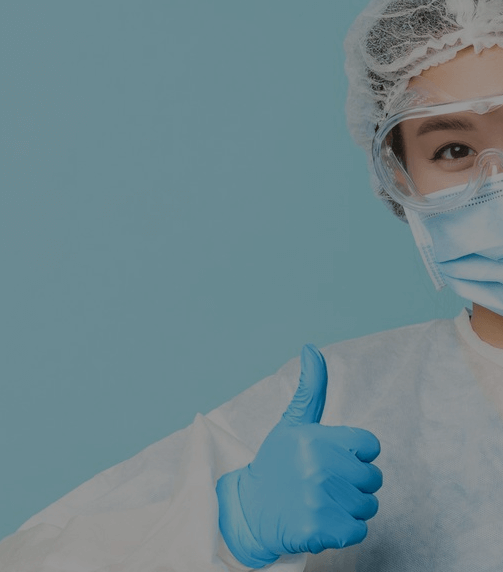
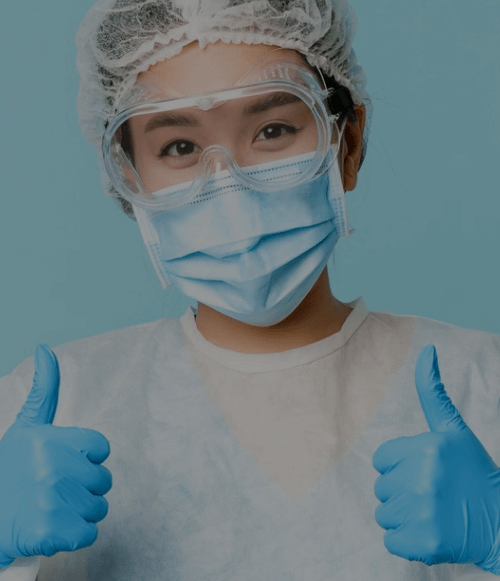
Optimize backgrounds

diff --git a/src/sections/hero.js b/src/sections/hero.js
@@ -2,8 +2,32 @@ import { useState } from 'react';
 import { Box, Stack, Typography, Button, useMediaQuery } from '@mui/material';
 import { ContactForm } from '../components/contact-form';
 import ArrowCircleDownIcon from '@mui/icons-material/ArrowCircleDown';
+import { getImageProps } from 'next/image';
+
+function getBackgroundImage(srcSet = '') {
+  const imageSet = srcSet
+    .split(', ')
+    .map((str) => {
+      const [url, dpi] = str.split(' ');
+      return `url("${url}") ${dpi}`;
+    })
+    .join(', ');
+  return `image-set(${imageSet})`;
+}
 
 export const Hero = () => {
+  const mdUp = useMediaQuery((theme) => theme.breakpoints.up('md'));
+  const {
+    props: { srcSet },
+  } = getImageProps({
+    alt: '',
+    width: 1920,
+    height: 1168,
+    src: mdUp ? '/assets/images/salmed-hero.png' : '/assets/images/salmed-hero-mobile.png',
+  });
+  const backgroundImage = getBackgroundImage(srcSet);
+  const style = { height: '100vh', width: '100vw', backgroundSize: 'cover', backgroundImage };
+
   const [openContactForm, setOpenContactForm] = useState(false);
   const handleOpenContactForm = () => setOpenContactForm(true);
   const handleCloseContactForm = () => setOpenContactForm(false);
@@ -13,30 +37,9 @@ export const Hero = () => {
       behavior: 'smooth',
     });
   };
-  const mdUp = useMediaQuery((theme) => theme.breakpoints.up('md'));
-  return (
-    <Box
-      sx={{
-        display: 'flex',
-        flexDirection: 'column',
-        justifyContent: 'center',
-        alignItems: 'center',
-        backgroundImage: 'url(assets/images/salmed-hero.png)',
 
-        minHeight: '100vh',
-        backgroundSize: 'cover',
-        '::before': {
-          content: '""',
-          position: 'absolute',
-          top: 0,
-          left: 0,
-          width: '100%',
-          height: '100vh',
-          backgroundColor: 'rgba(0, 0, 0, 0.4)',
-          zIndex: 0,
-        },
-      }}
-    >
+  return (
+    <Box style={style}>
       <Stack
         direction='column'
         justifyContent='flex-end'
@@ -48,6 +51,7 @@ export const Hero = () => {
           variant={mdUp ? 'h1' : 'h2'}
           color='white'
           textAlign='center'
+          sx={{ pt: '30vh' }}
         >
           Medicina <br /> Ocupacional
         </Typography>
@@ -68,17 +72,17 @@ export const Hero = () => {
         >
           Escríbenos
         </Button>
+        <Box
+          position='absolute'
+          bottom='1%'
+        >
+          <ArrowCircleDownIcon
+            onClick={handleScroll}
+            style={{ cursor: 'pointer' }}
+            sx={{ fontSize: '60px', color: 'white' }}
+          />
+        </Box>
       </Stack>
-      <Box
-        position='absolute'
-        bottom='1%'
-      >
-        <ArrowCircleDownIcon
-          onClick={handleScroll}
-          style={{ cursor: 'pointer' }}
-          sx={{ fontSize: '60px', color: 'white' }}
-        />
-      </Box>
       <ContactForm
         open={openContactForm}
         handleClose={handleCloseContactForm}

diff --git a/src/sections/epp.js b/src/sections/epp.js
@@ -1,29 +1,44 @@
 import React from 'react';
 import { Box, Stack, Typography, Button, Container, useMediaQuery } from '@mui/material';
+import { getImageProps } from 'next/image';
+import { Padding } from '@mui/icons-material';
+
+function getBackgroundImage(srcSet = '') {
+  const imageSet = srcSet
+    .split(', ')
+    .map((str) => {
+      const [url, dpi] = str.split(' ');
+      return `url("${url}") ${dpi}`;
+    })
+    .join(', ');
+  return `image-set(${imageSet})`;
+}
 
 export const Epp = () => {
   const mdUp = useMediaQuery((theme) => theme.breakpoints.up('md'));
+  const {
+    props: { srcSet },
+  } = getImageProps({
+    alt: '',
+    width: mdUp ? 1920 : 500,
+    height: 572,
+    src: mdUp ? '/assets/images/salmed-epp.png' : '/assets/images/salmed-epp-mobile.png',
+  });
+  const backgroundImage = getBackgroundImage(srcSet);
+  const style = {
+    height: '50vh',
+    width: '100vw',
+    backgroundSize: 'cover',
+    maxHeight: '70vh',
+    paddingTop: '100px',
+    paddingBottom: '400px',
+
+    backgroundImage,
+  };
   return (
     <Box
       id='epp'
-      sx={{
-        display: 'flex',
-        flexDirection: 'column',
-        justifyContent: 'center',
-        backgroundImage: mdUp ? 'url(assets/images/salmed-epp.png)' : 'url(assets/images/salmed-epp-mobile.png)',
-        backgroundSize: 'cover',
-        //backgroundPosition: 'center',
-        minHeight: '50vh',
-        py: 10,
-        // '::before': {
-        //   content: '""',
-        //   position: 'absolute',
-        //   width: '100%',
-        //   height: mdUp ? '100vh' : '69vh',
-        //   backgroundColor: 'rgba(0, 0, 0, 0.4)',
-        //   zIndex: 0,
-        // },
-      }}
+      style={style}
     >
       <Container>
         <Stack
@@ -36,9 +51,7 @@ export const Epp = () => {
             variant={mdUp ? 'h2' : 'h3'}
             color='white'
             textAlign={mdUp ? 'left' : 'center'}
-            //color={mdUp ? 'white' : 'black'}
             zIndex={1}
-            //sx={{ backgroundColor: 'rgba(0, 0, 0, 0.4)' }}
           >
             Equipos de <br />
             Protección <br />

diff --git a/src/styles/get-custom-theme.js b/src/styles/get-custom-theme.js
@@ -1,5 +1,6 @@
 import { alpha } from '@mui/material/styles';
 import { red } from '@mui/material/colors';
+import '@fontsource/roboto';
 
 export const brand = {
   0: '#FFFFFF',
@@ -131,7 +132,7 @@ const getDesignTokens = (mode) => ({
     },
   },
   typography: {
-    fontFamily: ['"Roboto"', '"Helvetica"', '"Arial"', 'sans-serif'].join(','),
+    fontFamily: ['"Roboto"', '"Arial"', 'sans-serif'].join(','),
     h1: {
       fontSize: '5rem',
       fontWeight: 600,

diff --git a/src/pages/index.js b/src/pages/index.js
@@ -24,6 +24,10 @@ export default function Home() {
           rel='icon'
           href='/favicon.ico'
         />
+        <link
+          href='https://fonts.googleapis.com/css2?family=Roboto:wght@400;500;700&display=swap'
+          rel='stylesheet'
+        />
       </Head>
 
       <main>

diff --git a/src/layout/top-nav.js b/src/layout/top-nav.js
@@ -42,11 +42,11 @@ const menuItems = [
     title: 'Productos',
     value: 'epp',
   },
-  {
-    id: 4,
-    title: 'Testimonios',
-    value: 'testimonials',
-  },
+  // {
+  //   id: 4,
+  //   title: 'Testimonios',
+  //   value: 'testimonials',
+  // },
 ];
 
 function TopNav({ mode }) {
